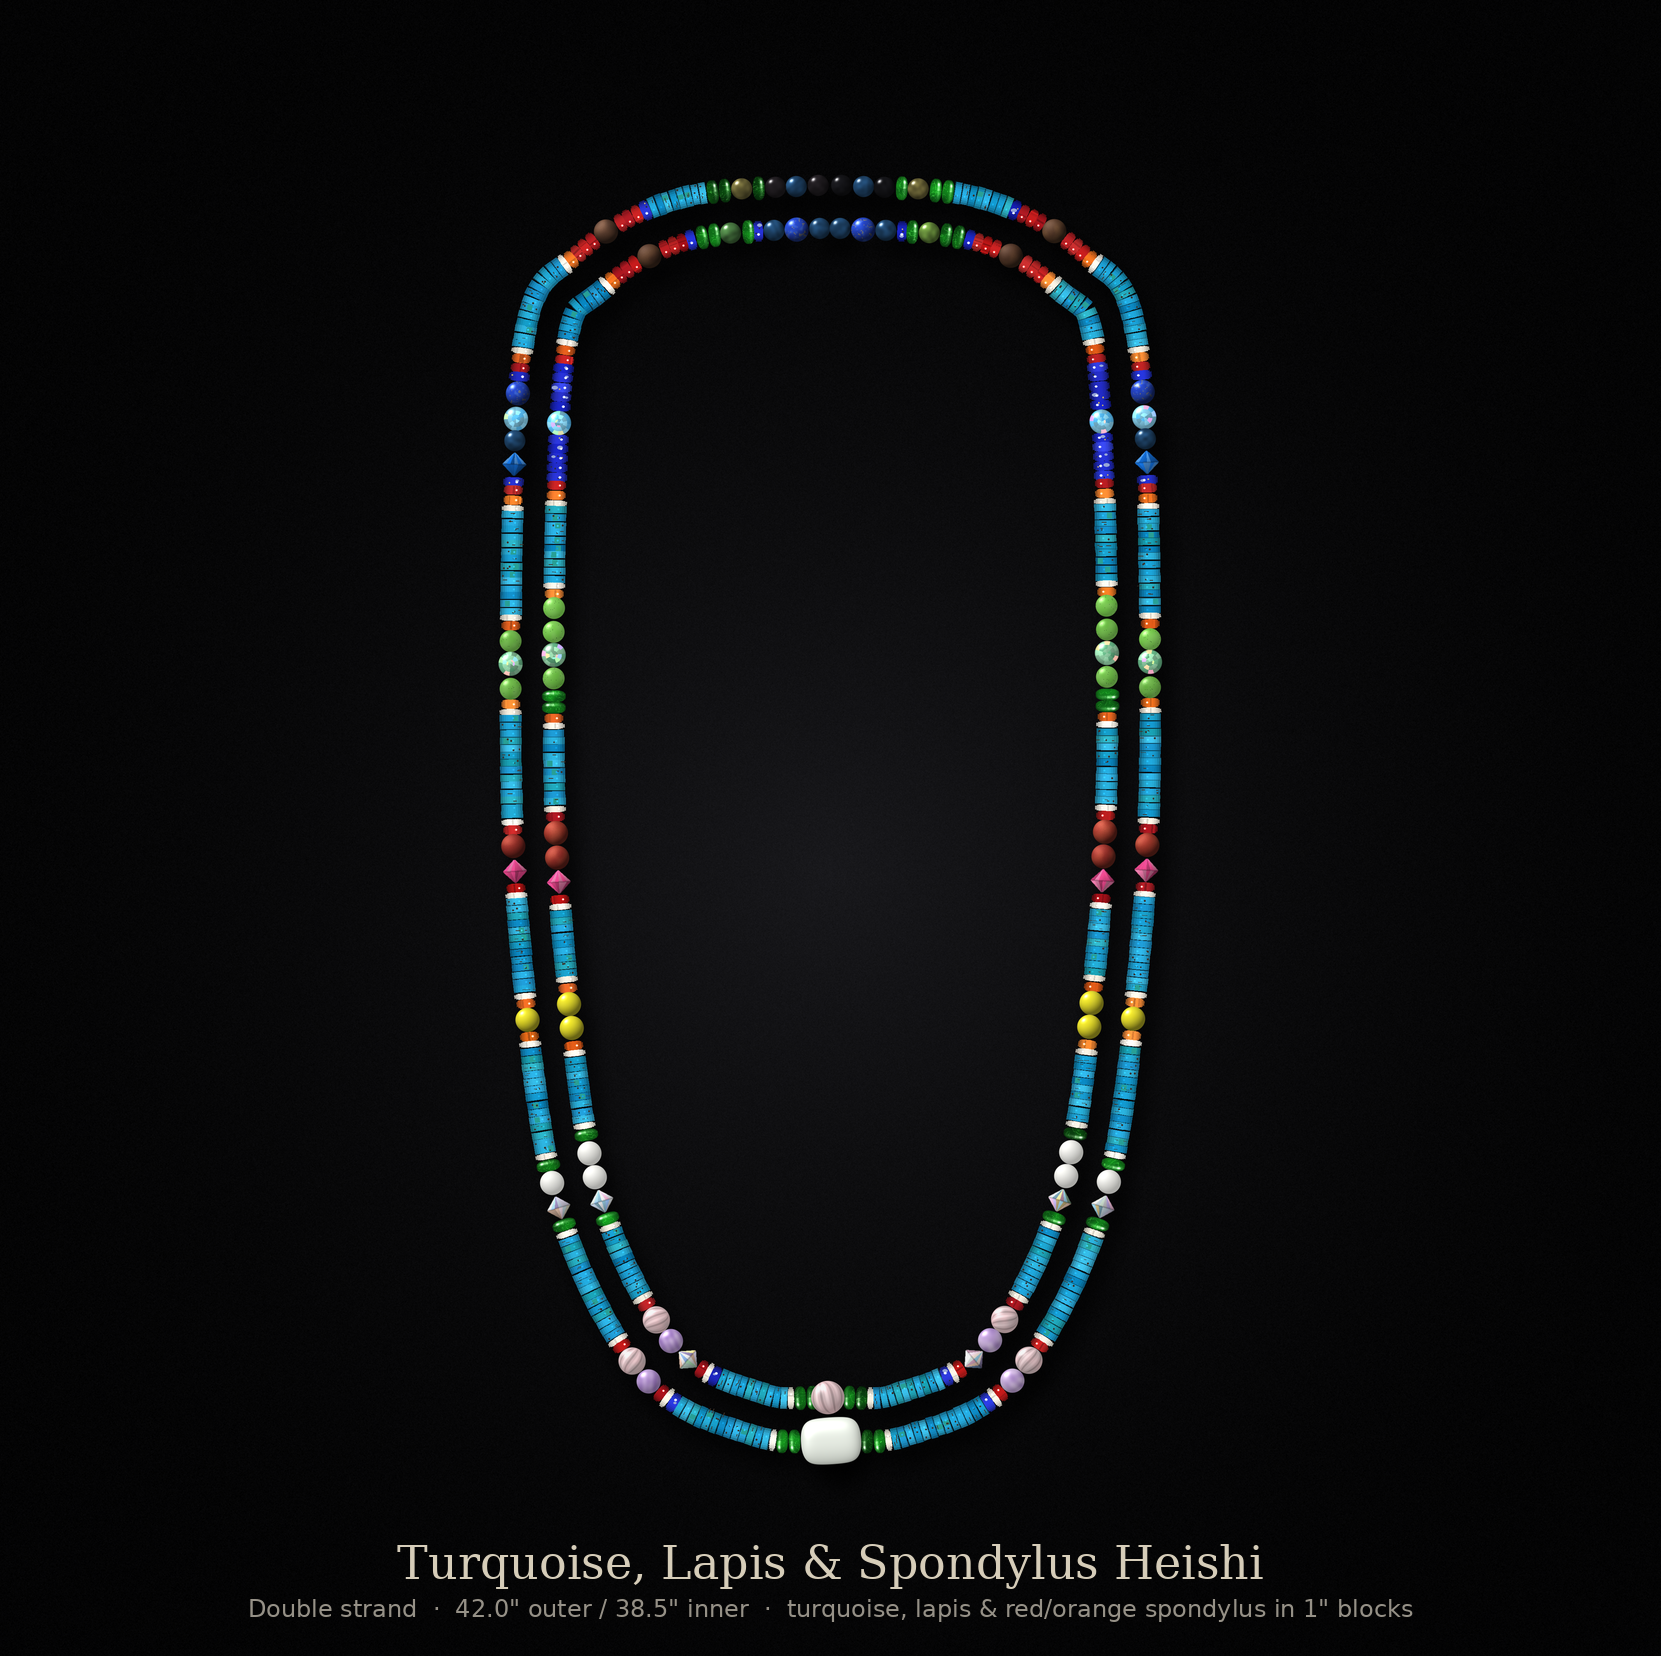
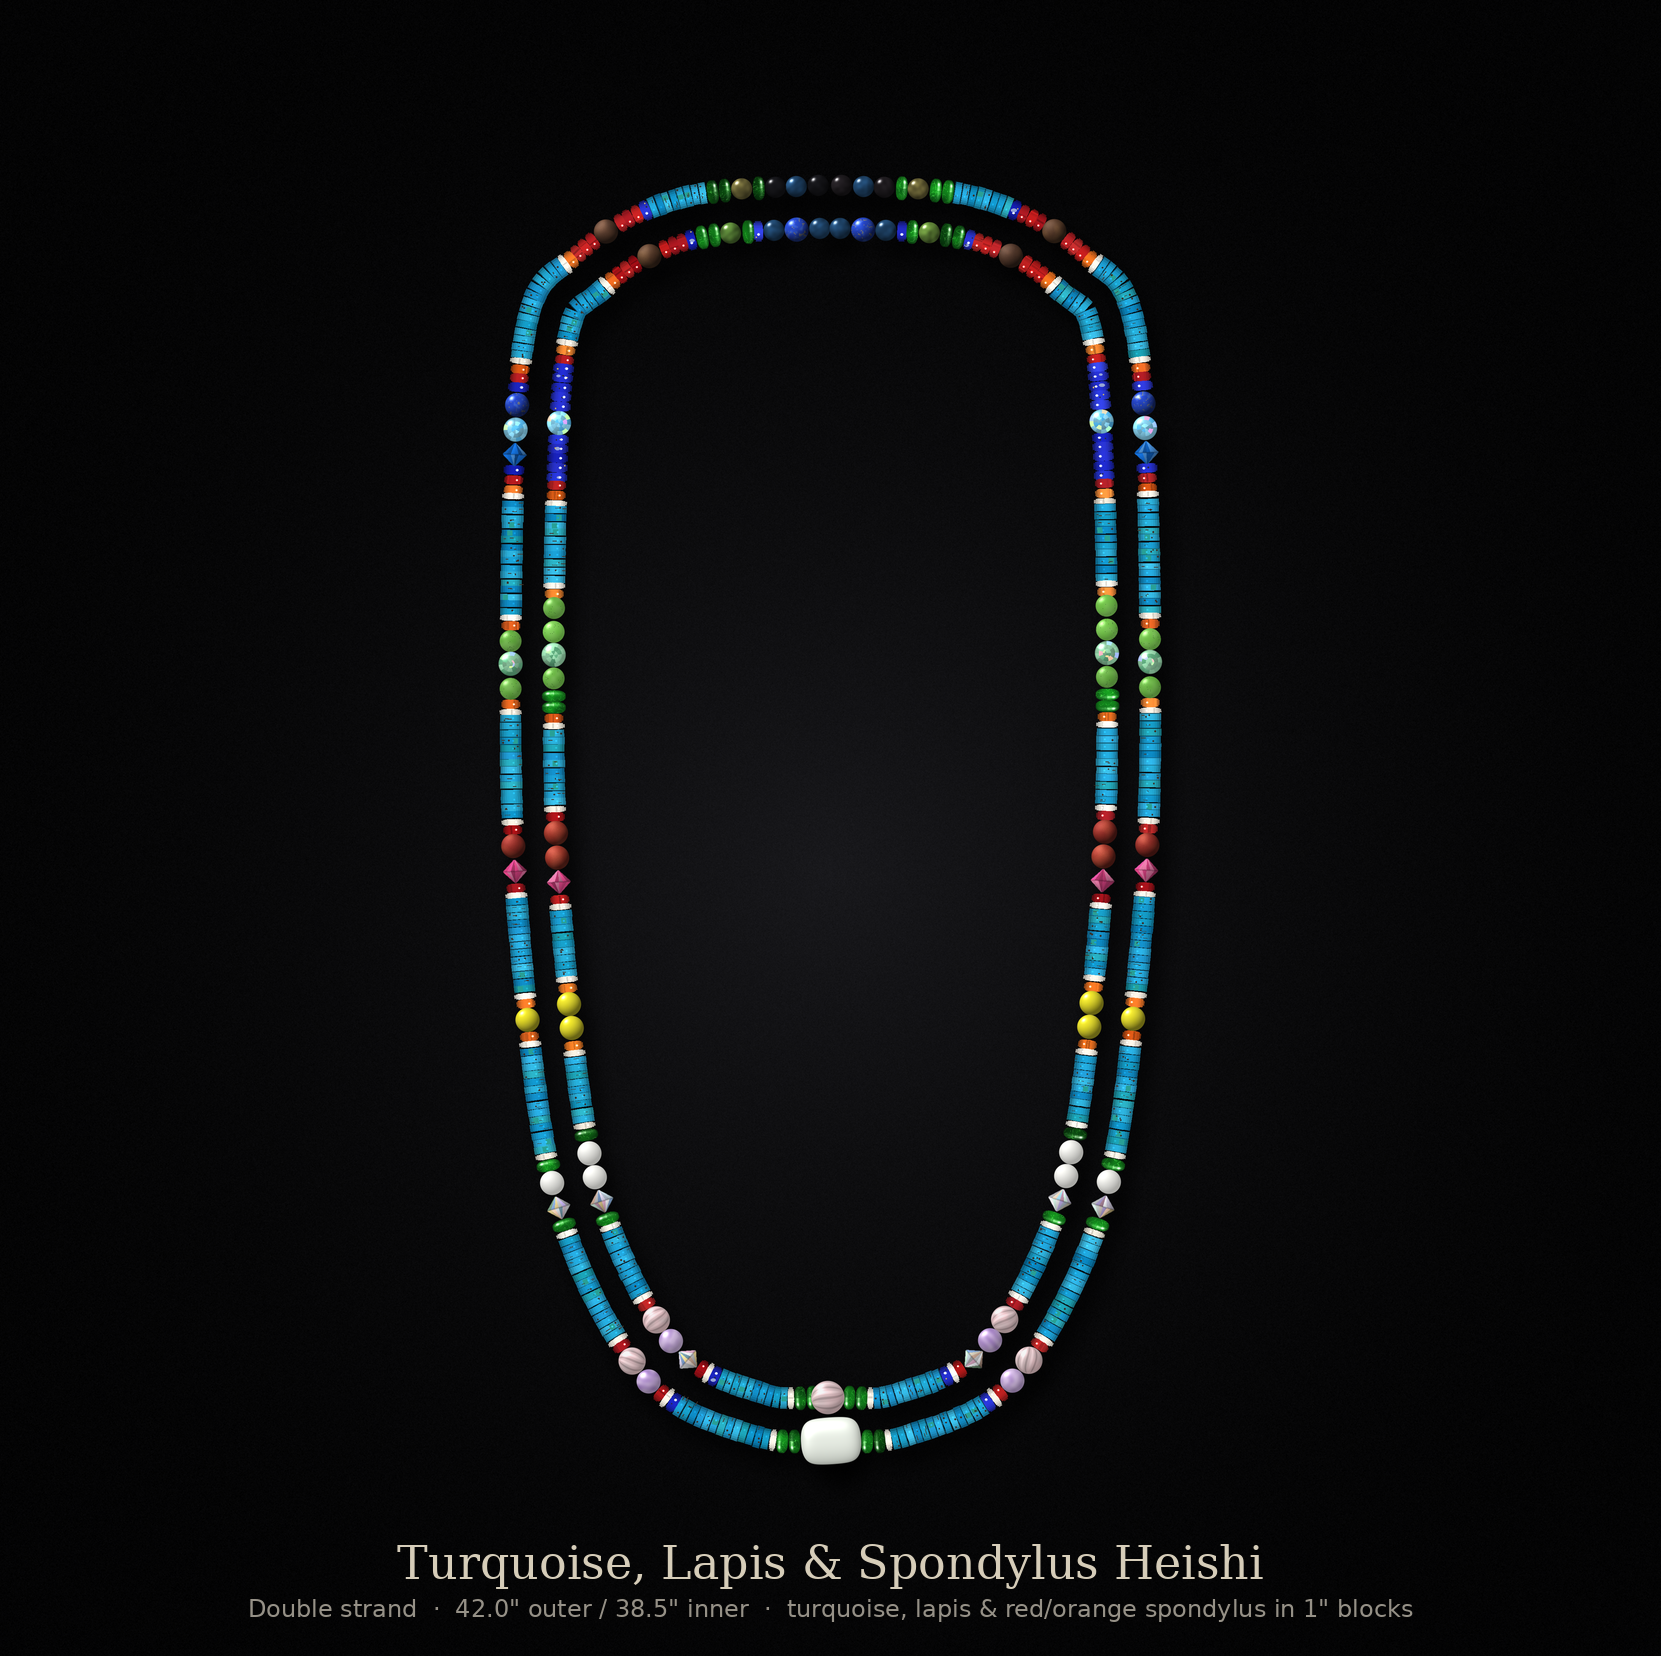
Version 5: remove the blue tourmaline from the outer blue section, turquoise fills in
Claude-Session: https://claude.ai/code/session_014be1vF4Rdf8sv9Si75Gudv

diff --git a/necklace/render_necklace.py b/necklace/render_necklace.py
@@ -1518,6 +1518,8 @@ if V4:
                 gaps[8] -= (SZ["diop"] - SZ["red"]) + SZ["red"]  # 4 mm more beads: taken from the turquoise run between them
                 assert STN[8][0] == "diop", STN[8]
                 del STN[8][0]; gaps[8] += SZ["diop"]             # rose section: green border removed, white conch touches the turquoise
+                if st == 0:                                      # outer blue section: blue tourmaline removed, turquoise above and below
+                    STN[3].remove("tblue"); gaps[3] += SZ["tblue"] / 2; gaps[4] += SZ["tblue"] / 2
                 if st == 0:                                      # outer: one white round fewer; turquoise above and below fills in
                     STN[7].remove("opal8")
                     gaps[7] += SZ["opal8"] / 2; gaps[8] += SZ["opal8"] / 2
